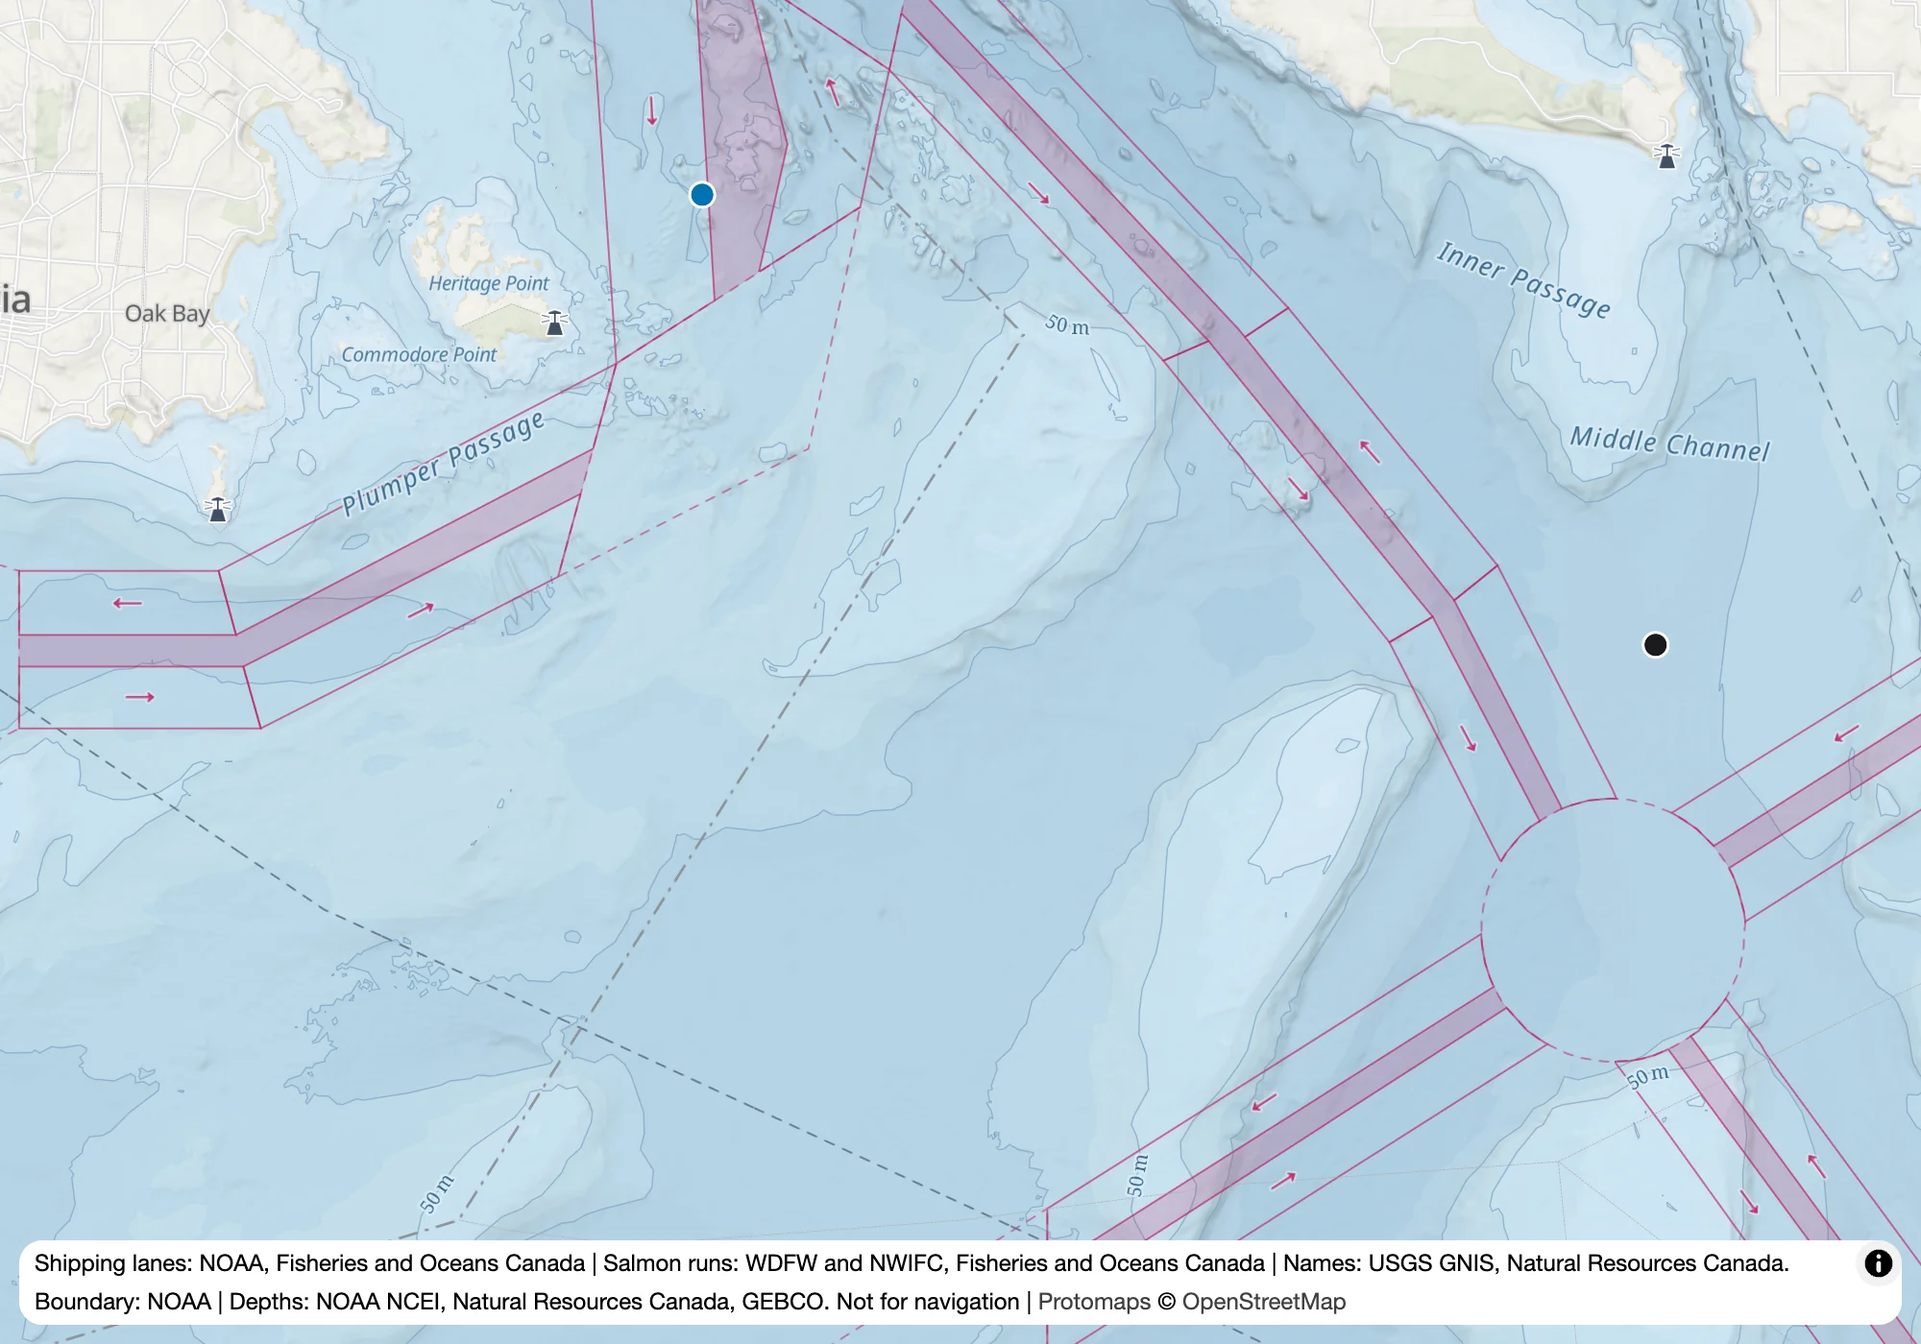
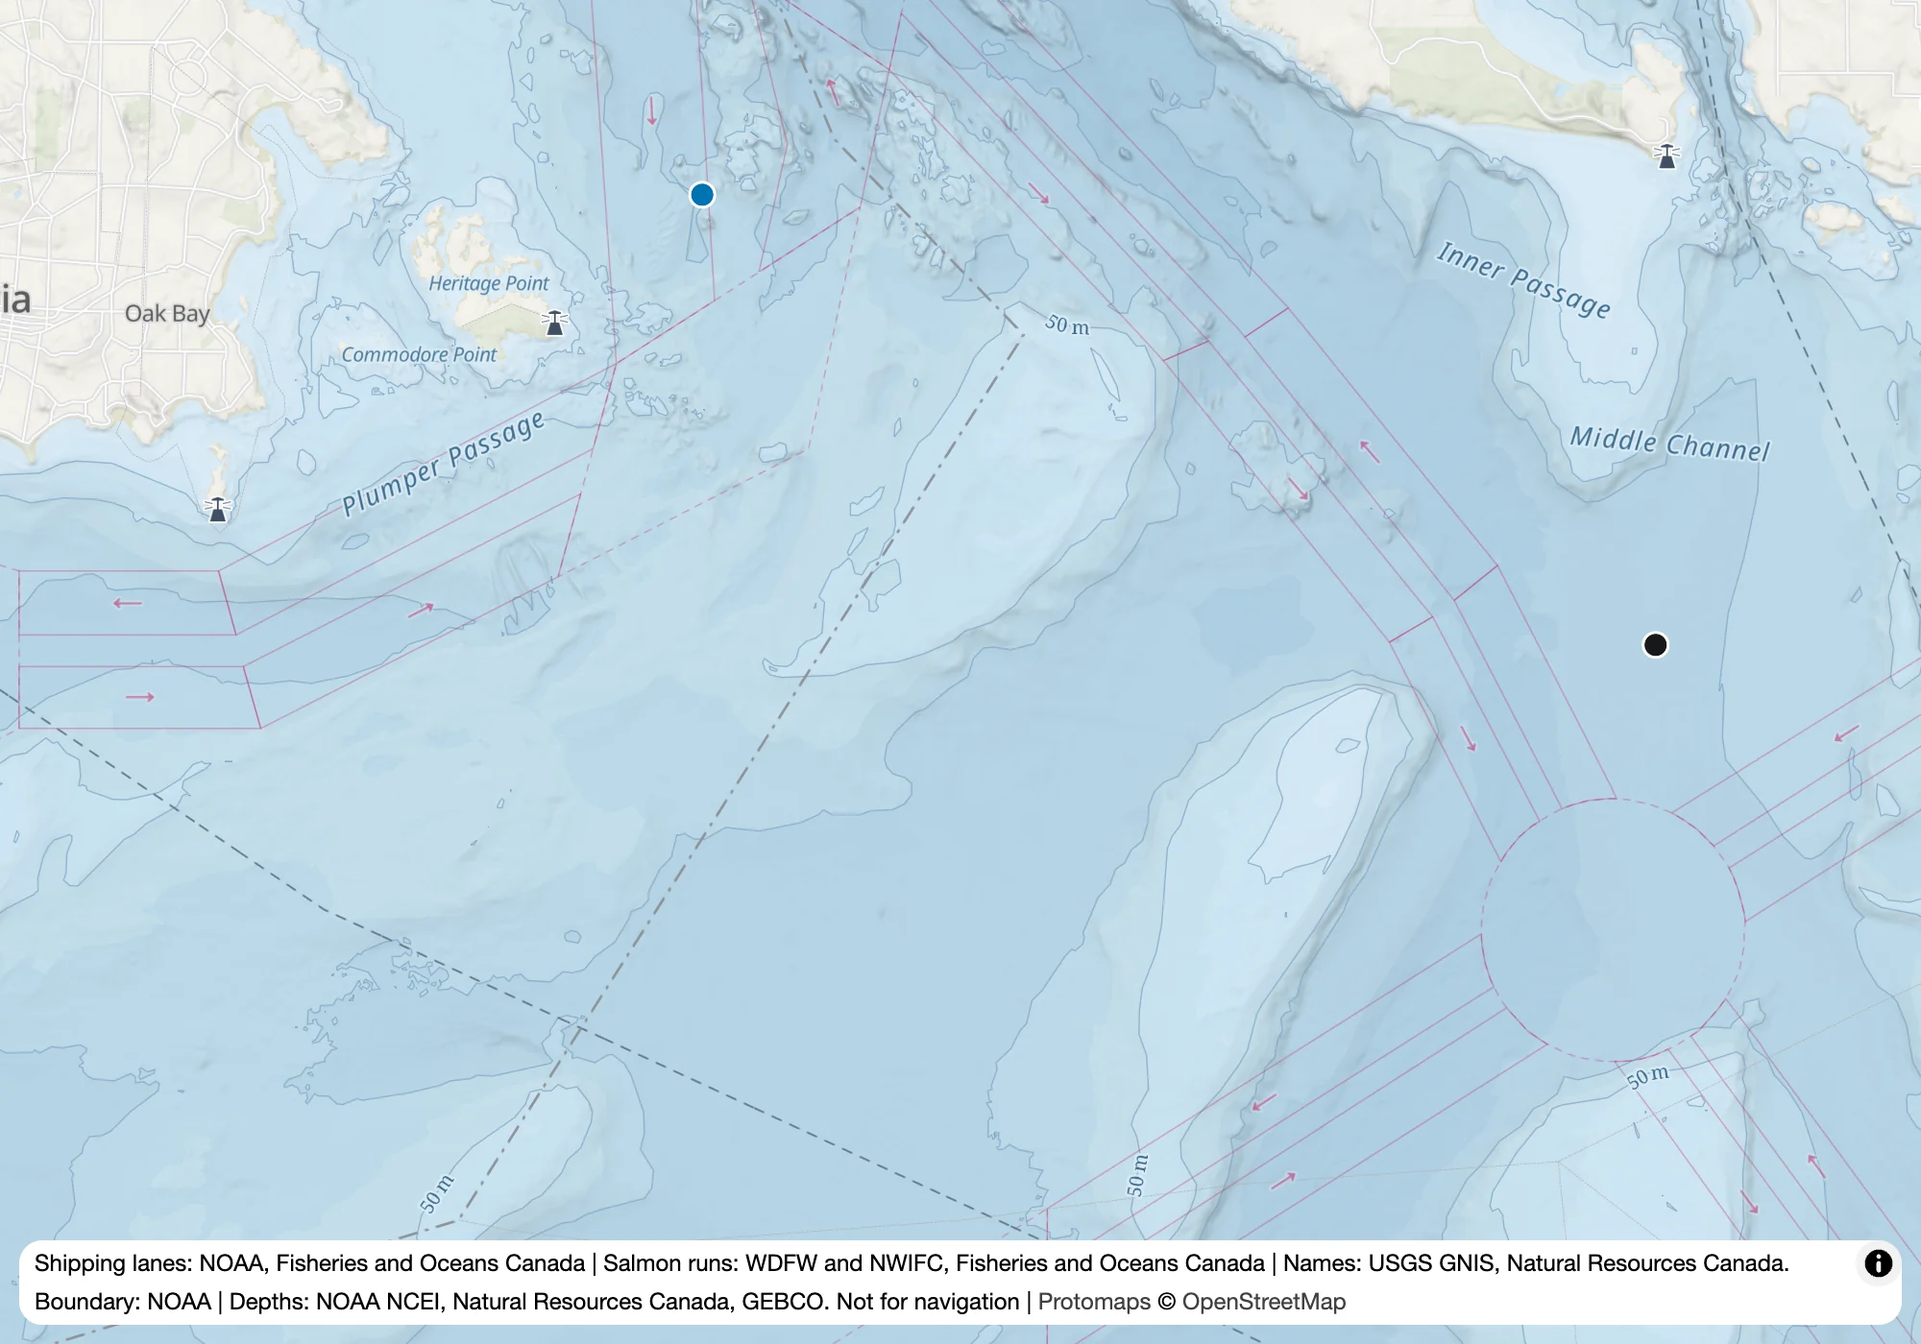
Shipping lanes are faint outlines with the separation zones undrawn; the Skeena's runs are labelled
On SalishSea.io's map the lanes were the boldest thing on the water after the sightings. Peter chose the lightest of three strengths drawn side by side: outlines at 30%, precautionary areas dashed at 30%, arrows at half strength from zoom 10, names from 12, and no tint for the separation zones, which are only the buffer between the two directions. Decision 019 amended in place.

The salmon labels accepted only the Fraser's single-group watershed code, so the Skeena (400), and the Nass, Stikine, Taku and Alsek, weren't labelled. They are now; the Peace and the Columbia, which reach the sea outside the province, still aren't. Decision 020 amended in place (SalishSea.io's salish-3zok.24). The image style is unchanged.

diff --git a/style/style.ts b/style/style.ts
@@ -254,39 +254,36 @@ function ferryLayers(): { lines: LayerSpecification[]; labels: LayerSpecificatio
   };
 }
 
-// Shipping lanes, from the two countries' charts (decisions/019), from zoom 8, thin and
-// faint, so that sightings stay on top: separation zones, the bands between opposing lanes,
-// as a tint; lanes and two-way routes outlined; precautionary areas, where lanes meet and
-// ships take care, dashed. From zoom 9 an arrow every few kilometres shows each lane's
-// direction, and from 11 each lane is named for it, as reports name them: "east of the
-// northbound lane". The arrows and names are text, turned to the lane on the map.
+// Shipping lanes, from the two countries' charts (decisions/019), from zoom 8, as faint
+// outlines, so that they stay in the background: lanes and two-way routes outlined;
+// precautionary areas, where lanes meet and ships take care, dashed. The separation zones,
+// the bands between opposing lanes, aren't drawn: what reports name is the lanes. From
+// zoom 10 an arrow every few kilometres shows each lane's direction, and from 12 each
+// lane is named for it, as reports name them: "east of the northbound lane". The arrows
+// and names are text, turned to the lane on the map.
 function routeLayers(): { areas: LayerSpecification[]; marks: LayerSpecification[] } {
   const kind = (...kinds: string[]) => ['in', ['get', 'kind'], ['literal', kinds]];
-  const width = ['interpolate', ['linear'], ['zoom'], 8, 0.6, 12, 1.2];
+  const width = ['interpolate', ['linear'], ['zoom'], 8, 0.5, 12, 0.9];
   const text = { 'text-font': ['Noto Sans Regular'], 'text-rotate': ['get', 'rotate'], 'text-rotation-alignment': 'map', 'text-pitch-alignment': 'map' };
   return {
     areas: [
       {
-        id: 'route_zones', type: 'fill', source: 'routes', 'source-layer': 'areas', minzoom: 8, filter: kind('separation_zone') as never,
-        paint: { 'fill-color': ROUTE, 'fill-opacity': ['interpolate', ['linear'], ['zoom'], 8, 0.14, 12, 0.2] as never },
-      },
-      {
         id: 'route_lanes', type: 'line', source: 'routes', 'source-layer': 'areas', minzoom: 8, filter: kind('lane', 'two_way') as never,
-        paint: { 'line-color': ROUTE, 'line-width': width as never, 'line-opacity': 0.6 },
+        paint: { 'line-color': ROUTE, 'line-width': width as never, 'line-opacity': 0.3 },
       },
       {
         id: 'route_precautionary', type: 'line', source: 'routes', 'source-layer': 'areas', minzoom: 8, filter: kind('precautionary') as never,
-        paint: { 'line-color': ROUTE, 'line-width': width as never, 'line-opacity': 0.5, 'line-dasharray': [4, 3] },
+        paint: { 'line-color': ROUTE, 'line-width': width as never, 'line-opacity': 0.3, 'line-dasharray': [4, 3] },
       },
     ],
     marks: [
       {
-        id: 'route_arrows', type: 'symbol', source: 'routes', 'source-layer': 'marks', filter: kind('arrow') as never,
+        id: 'route_arrows', type: 'symbol', source: 'routes', 'source-layer': 'marks', minzoom: 10, filter: kind('arrow') as never,
         layout: { ...text, 'text-field': ['get', 'glyph'], 'text-font': ['Noto Sans Medium'], 'text-size': ['interpolate', ['linear'], ['zoom'], 9, 16, 13, 30], 'text-padding': 0 } as never,
-        paint: { 'text-color': ROUTE, 'text-opacity': 0.85, 'text-halo-color': 'rgba(220,237,247,0.7)', 'text-halo-width': 1 },
+        paint: { 'text-color': ROUTE, 'text-opacity': 0.5, 'text-halo-color': 'rgba(220,237,247,0.7)', 'text-halo-width': 1 },
       },
       {
-        id: 'route_names', type: 'symbol', source: 'routes', 'source-layer': 'marks', filter: kind('name') as never,
+        id: 'route_names', type: 'symbol', source: 'routes', 'source-layer': 'marks', minzoom: 12, filter: kind('name') as never,
         layout: { ...text, 'text-field': ['get', 'name'], 'text-size': 10, 'text-letter-spacing': 0.04, 'text-optional': true } as never,
         paint: { 'text-color': ROUTE, 'text-halo-color': 'rgba(220,237,247,0.85)', 'text-halo-width': 1.2 },
       },

diff --git a/scripts/salmon.py b/scripts/salmon.py
@@ -142,12 +142,20 @@ class Sea:
         return self.lowest(lon, lat, LOW_WITHIN) <= LOW and self.lowest(lon, lat, SEA_WITHIN) <= SEA_DEPTH
 
 
+# The province's codes for the great rivers that reach the sea in or beside it: the Fraser,
+# the Skeena, the Nass, the Stikine and the Taku. The Peace (200) and the Columbia (300)
+# reach the sea elsewhere, so their parts in the province aren't labelled.
+SEA_GOING = {"100", "400", "500", "600", "700"}
+
+
 def reaches_sea(code: str) -> bool:
-    """Whether a British Columbia watershed code is a river that reaches the sea: the
-    Fraser itself, 100, or a stream one level below a coastal drainage, as the Cowichan,
-    920-252823, is. A deeper code is a tributary, as the Harrison, 100-077501, is."""
+    """Whether a British Columbia watershed code is a river that reaches the sea: one of the
+    great rivers, such as the Fraser, 100, or the Skeena, 400; or a coastal drainage's own
+    river, a single group in the 900s, such as the Alsek, 990; or a stream one level below a
+    coastal drainage, as the Cowichan, 920-252823, is. A deeper code is a tributary, as the
+    Harrison, 100-077501, is."""
     groups = code.split("-")
-    return groups == ["100"] or (groups[0].startswith("9") and len(groups) == 2)
+    return (len(groups) == 1 and (code in SEA_GOING or code.startswith("9"))) or (groups[0].startswith("9") and len(groups) == 2)
 
 
 def build(src: str, rivers_path: str, dem: str, out: str, bbox: tuple[float, float, float, float]) -> None:

diff --git a/decisions/019-shipping-lanes-are-drawn-from-the-charts.md b/decisions/019-shipping-lanes-are-drawn-from-the-charts.md
@@ -1,6 +1,6 @@
 # 019 — Shipping lanes are drawn from the two countries' charts, on the map but not in the image tiles
 
-**Status:** accepted · **Decided:** 2026-10-19, by Peter · **Follows:** SalishSea.io's `salish-3zok.11`, split from the research on whale protection zones in `salish-3zok.9`
+**Status:** accepted; amended 2026-10-20 · **Decided:** 2026-10-19, by Peter · **Follows:** SalishSea.io's `salish-3zok.11`, split from the research on whale protection zones in `salish-3zok.9`
 
 ## Context
 
@@ -10,15 +10,16 @@ There are two open sources. NOAA's [ENC Direct](https://encdirect.noaa.gov/) ser
 
 ## Decision
 
-**The map draws the charts' routeing areas from zoom 8** ([scripts/routes.py](../scripts/routes.py), [style/style.ts](../style/style.ts), `routeLayers`):
+**The map draws the charts' routeing areas from zoom 8, as faint outlines** ([scripts/routes.py](../scripts/routes.py), [style/style.ts](../style/style.ts), `routeLayers`):
 
-- **separation zones**, the bands between opposing lanes, as a faint tint;
-- **lanes** of traffic separation schemes, recommended lanes and **two-way routes**, outlined;
+- **lanes** of traffic separation schemes, recommended lanes and **two-way routes**, outlined at 30% opacity;
 - **precautionary areas**, where lanes meet and ships must take care, dashed;
-- from zoom 9, an **arrow** every 6 km along each lane, pointing its way, or both ways along a two-way route;
-- from zoom 11, each lane's **name** by its direction, "Northbound lane" or "Two-way route", written along it, as reports name them.
+- from zoom 10, an **arrow** every 6 km along each lane, pointing its way, or both ways along a two-way route, at half strength;
+- from zoom 12, each lane's **name** by its direction, "Northbound lane" or "Two-way route", written along it, as reports name them.
 
-All of it is one colour, `#c2185b`, a deep raspberry near the charts' magenta. Chart magenta itself is too close to two of SalishSea.io's sighting colours, the otter's pink `#CC79A7` and the toothed whale's violet `#5B2C8D`. This colour keeps a perceptual distance (CIE ΔE) of at least 37 from every one of them, against 27 to 31 for magentas nearer the charts'. The lines are thin and the tint faint, and the arrows and names give way to depth labels and water names, so that sightings stay the most visible thing on the map.
+(Amended 2026-10-20, by Peter: as first published in 2026.10.15, the separation zones, the bands between opposing lanes, were tinted, the outlines were twice as strong, and arrows and names appeared a zoom earlier. On SalishSea.io's map the lanes were then the boldest thing on the water after the sightings. Peter chose the lightest of three strengths drawn side by side, and dropped the zones' tint: the zone is only the buffer between the two directions, and isn't what reports name. The separation zones stay in the archive, undrawn.)
+
+All of it is one colour, `#c2185b`, a deep raspberry near the charts' magenta. Chart magenta itself is too close to two of SalishSea.io's sighting colours, the otter's pink `#CC79A7` and the toothed whale's violet `#5B2C8D`. This colour keeps a perceptual distance (CIE ΔE) of at least 37 from every one of them, against 27 to 31 for magentas nearer the charts'. The lines are thin and faint, and the arrows and names give way to depth labels and water names, so that sightings stay the most visible thing on the map.
 
 **NOAA's areas are used wherever NOAA charts; Canada's fill the gaps** (Peter). NOAA's coastal charts cover US waters and, from cells compiled from Canada's charts, Haro Strait and Boundary Pass too. Canada's areas are added only where NOAA has nothing, such as the schemes off the Fraser River and Vancouver, cut away where they overlap NOAA's, and a sliver or scrap that is left is dropped. Over the coast that is 132 areas from NOAA and 7 from Canada. Pieces of one area that the charts cut at their cells' edges are joined, so no line crosses a lane where a cell ends.
 

diff --git a/decisions/020-each-river-mouth-is-labelled-with-its-salmon-runs.md b/decisions/020-each-river-mouth-is-labelled-with-its-salmon-runs.md
@@ -17,7 +17,7 @@ Both governments publish which salmon use which streams. Washington's [SWIFD](ht
 
 - **Which rivers.** Those Protomaps' tiles name at zoom 10, whose names end in River, Creek, Stream or Brook. A delta's channels, such as Hat Slough or West Pass, are part of their river. A river has to reach salt water: a tributary's mouth, such as the Sauk's on the Skagit, isn't where whales would be.
   - In Washington, a mouth reaches the sea when the ground within 300 m of it is no higher than 5 m and water within 8 km is at least 1 m deep, by the depth grid. That passes the Snohomish and fails the Bear Creeks, whose mouths are 90 m up. A river that ends at the head of its delta, as the Skagit does at Conway, is labelled at the mouth of a fork that reaches the sea, with the forks' runs and its own together. A fork is its river's only if its mouth is within 15 km of the river's, so that a North Fork Bear Creek isn't taken for a fork of every Bear Creek.
-  - In British Columbia, a river is its watershed code, so two streams of one name are two rivers, and it reaches the sea when its watershed code is the Fraser's, `100`, or one level below a coastal drainage, as the Cowichan's, `920-252823`, is. The Harrison, `100-077501`, is a tributary. The depth grid can't tell these apart there, because it records the Fraser's channel below sea level.
+  - In British Columbia, a river is its watershed code, so two streams of one name are two rivers, and it reaches the sea when its code is a single group for a great river that reaches the sea (the Fraser's `100`, the Skeena's `400`, the Nass's `500`, the Stikine's `600`, the Taku's `700`) or a coastal drainage's own river in the 900s (the Alsek's `990`), or one level below a coastal drainage, as the Cowichan's, `920-252823`, is. (Amended 2026-10-20: 2026.10.15 accepted only the Fraser's single group, and so missed the Skeena.) The Harrison, `100-077501`, is a tributary. The depth grid can't tell these apart there, because it records the Fraser's channel below sea level.
 - **Which runs.** In Washington, the runs SWIFD documents anywhere on the river's own stream: seen there, including hatchery fish and fish carried past a dam, but not presumed, modelled or historic. A run present on the main stem is usually passing through to spawn upstream, which is the fact that matters at the mouth. In British Columbia, every population in the river's watershed, by its code, so the Fraser lists the runs of the Harrison, the Adams and the rest. NuSEDS doesn't hold steelhead, so British Columbia's rivers don't list them.
 - **When.** From zoom 10 for a river at least 40 km long on the map, 11 for one at least 12 km, and 12 for a creek.
 - **How.** The river's name in the medium weight and its runs beneath, small, in a muted river blue. The labels are placed before the towns' names, because a town often stands at a river's mouth, as Cowichan Bay does at the Cowichan's, and the runs are the point of the label there; the town's name gives way. They are labels, so the image tiles leave them out.

diff --git a/README.md b/README.md
@@ -70,7 +70,7 @@ Everything the style needs, the labels' fonts and the icons included, is served 
 - **Landmarks** people steer by: lighthouses, tall radio and television towers, and what the charts mark as conspicuous from the water, each with an icon and, closer in, its name ([015](decisions/015-landmarks-are-what-the-charts-mark-and-tall-towers.md)).
 - **Places people watch from**, such as beaches, parks, marinas and ferry terminals, are named from OpenStreetMap; shops, restaurants and other businesses are not ([016](decisions/016-points-of-interest-are-where-people-watch-from.md)).
 - **Salmon runs** at the mouth of each named river that reaches the sea, such as "Chinook (spring, summer, fall) · coho · chum (fall)", because resident killer whales follow salmon ([020](decisions/020-each-river-mouth-is-labelled-with-its-salmon-runs.md)).
-- **Shipping lanes**, the separation zones between them, two-way routes and precautionary areas, from zoom 8, with arrows for their direction and, closer in, names such as "Northbound lane", as reports name them. They are left out of the image tiles ([019](decisions/019-shipping-lanes-are-drawn-from-the-charts.md)).
+- **Shipping lanes** and two-way routes, faintly outlined from zoom 8, with precautionary areas dashed, arrows for their direction from 10 and names such as "Northbound lane" from 12, as reports name them. They are left out of the image tiles ([019](decisions/019-shipping-lanes-are-drawn-from-the-charts.md)).
 - **Bays, straits, channels and points** are named from the US and Canadian government gazetteers, and the boundary at sea is drawn ([006](decisions/006-marine-names-and-the-boundary-come-from-government-gazetteers.md)).
 
 ![The shore at Lime Kiln Point State Park at MapLibre zoom 14, with isobaths labelled from 5 m to 300 m running parallel to the shore.](docs/images/zoom14.webp)
@@ -81,7 +81,7 @@ Everything the style needs, the labels' fonts and the icons included, is served 
 
 *The Skagit at zoom 10, where a salmon river reads as plainly as the interstate beside it.*
 
-![The east end of the Strait of Juan de Fuca off Victoria at MapLibre zoom 10.6: the inbound and outbound lanes outlined in raspberry with arrows, the separation zone between them tinted, a dashed circle where lanes meet, and Haro Strait's two-way route running north, all beneath coloured dots.](docs/images/lanes.webp)
+![The east end of the Strait of Juan de Fuca off Victoria at MapLibre zoom 10.6: the inbound and outbound lanes faintly outlined in raspberry with small arrows, a dashed circle where lanes meet, and Haro Strait's two-way route running north, all beneath coloured dots.](docs/images/lanes.webp)
 
 *Off Victoria at zoom 10.6: the Strait of Juan de Fuca's lanes meet Haro Strait's, under the sightings.*
 

diff --git a/decisions/README.md b/decisions/README.md
@@ -28,5 +28,5 @@ Recorded here:
 - [016](016-points-of-interest-are-where-people-watch-from.md): of Protomaps' points of interest, only beaches, parks, peaks, marinas, ferry terminals, aerodromes, museums, zoos, and at the closest zooms benches, toilets and drinking water; shops, restaurants and other businesses are left out.
 - [017](017-depth-labels-are-set-in-a-serif.md): depth labels are set in Noto Serif, turned along their lines, because Noto Sans's 1 turned along a climbing line reads as a 7; the serif is served with Protomaps' fonts under `assets/fonts-<hash>/`.
 - [018](018-the-names-the-map-labels-are-published-as-lists.md): the Salish Sea's places a search offers, about 2,100 of the names the map labels (the gazetteers' larger water bodies and points; OpenStreetMap's larger islands, cities, towns and villages, and one ferry terminal for each landing), are published with each version as two JSON lists, apart because their licences differ, and the style names them in its metadata as `salishsea:places`.
-- [019](019-shipping-lanes-are-drawn-from-the-charts.md): shipping lanes, separation zones, two-way routes and precautionary areas are drawn from zoom 8 in a deep raspberry, with arrows from 9 and names from 11, from NOAA's charts wherever NOAA charts and Canada's where it doesn't; on the map, not in the image tiles.
+- [019](019-shipping-lanes-are-drawn-from-the-charts.md): shipping lanes, two-way routes and precautionary areas are drawn from zoom 8 as faint raspberry outlines, with arrows from 10 and names from 12, the separation zones undrawn, from NOAA's charts wherever NOAA charts and Canada's where it doesn't; on the map, not in the image tiles.
 - [020](020-each-river-mouth-is-labelled-with-its-salmon-runs.md): each named river that reaches the sea is labelled at its mouth with its salmon and steelhead runs, such as "Chinook (spring, summer, fall) · coho · chum (fall)", from WDFW and NWIFC's SWIFD and Fisheries and Oceans Canada's NuSEDS; placed before towns' names; not in the image tiles.
